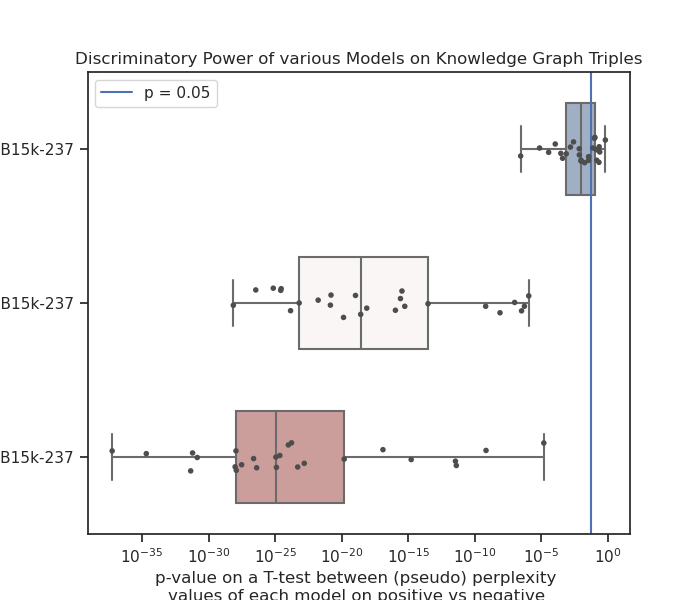
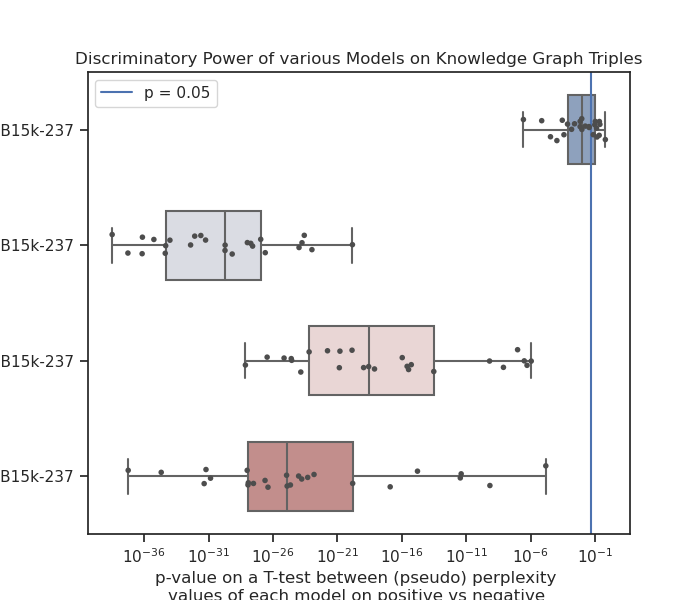
most updated results

diff --git a/plot_results.py b/plot_results.py
@@ -1,4 +1,4 @@
 import utils
 
-f = utils.plot_results([('BERT', 'FB15k-237'), ('GPT2_gpt2', 'FB15k-237'), ('GPT2_gpt2-large', 'FB15k-237')], 25, 1000)
+f = utils.plot_results([("BERT_word_norm", "FB15k-237"),('BERT', 'FB15k-237'), ('GPT2_gpt2', 'FB15k-237'), ('GPT2_gpt2-large', 'FB15k-237')], 25, 1000)
 f.savefig('results_1_long.png')
